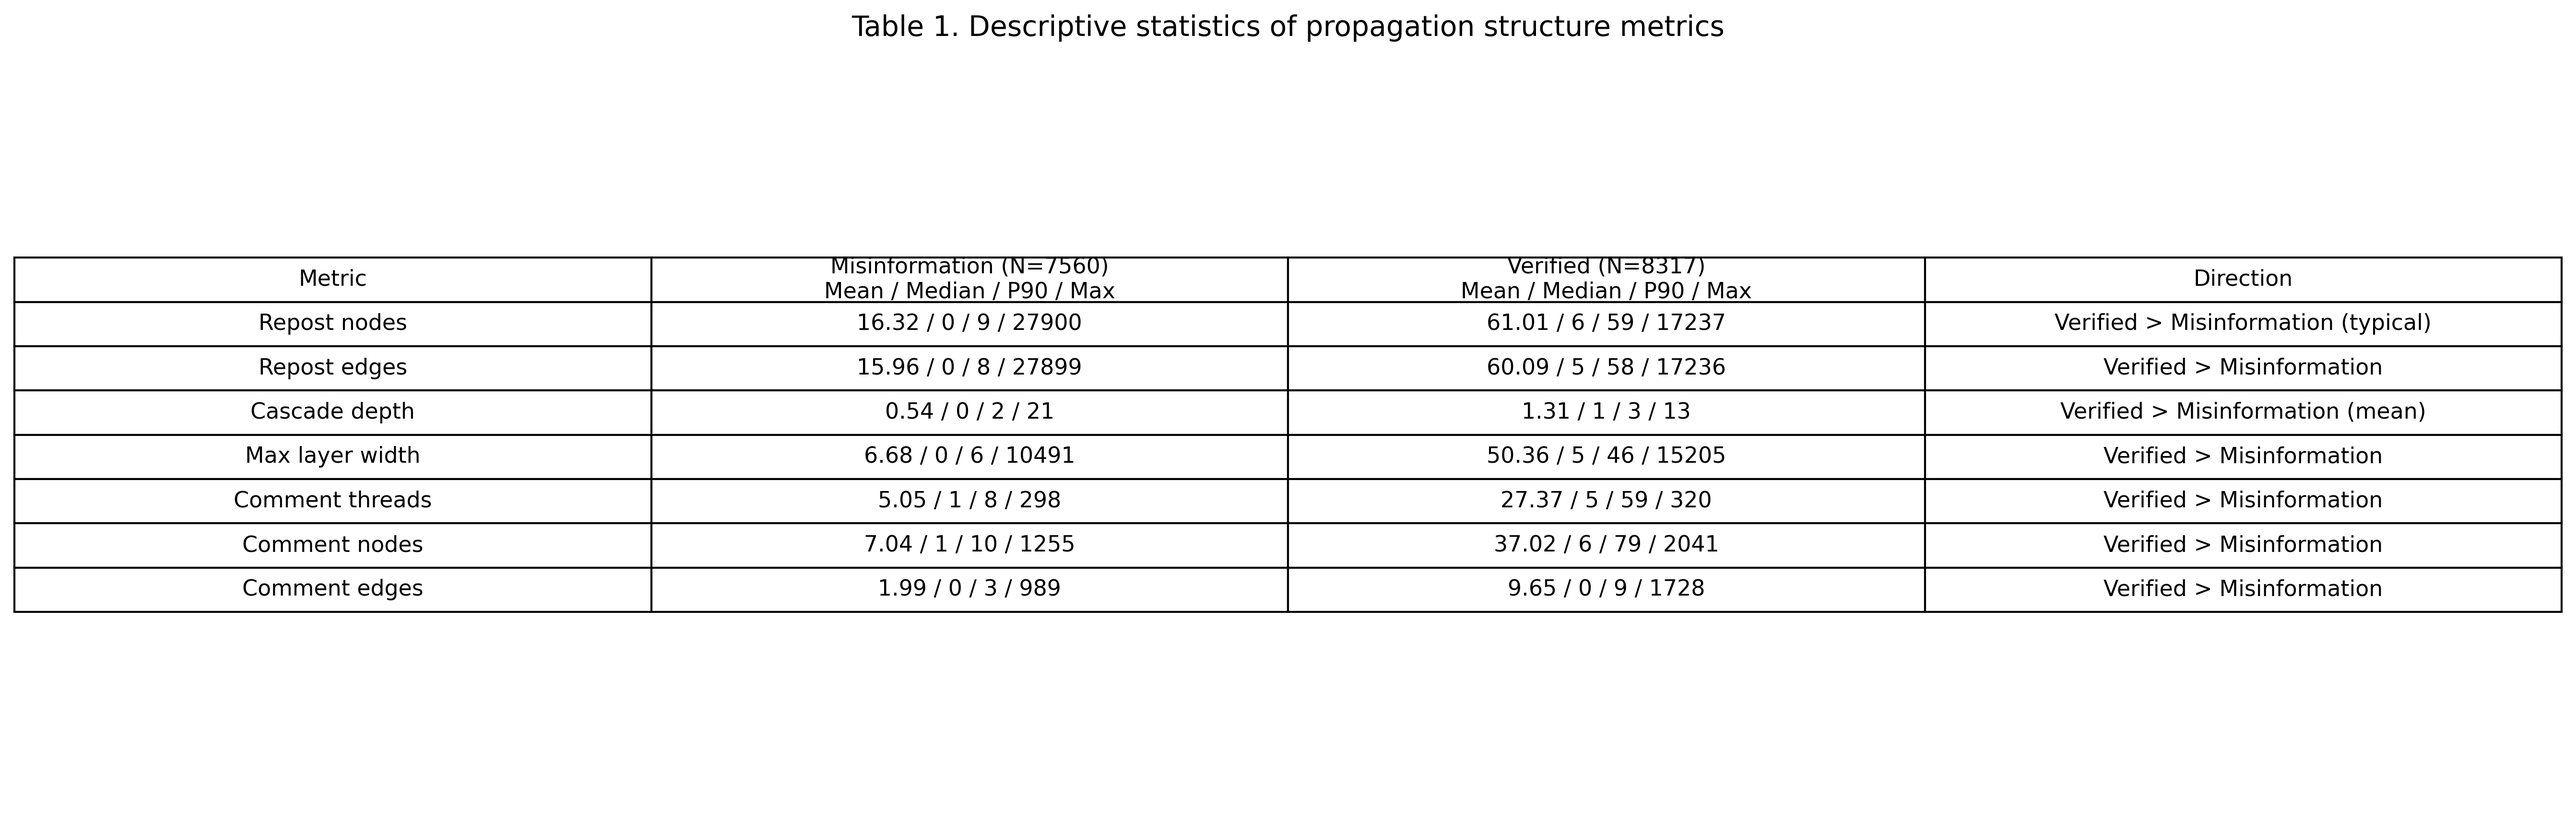
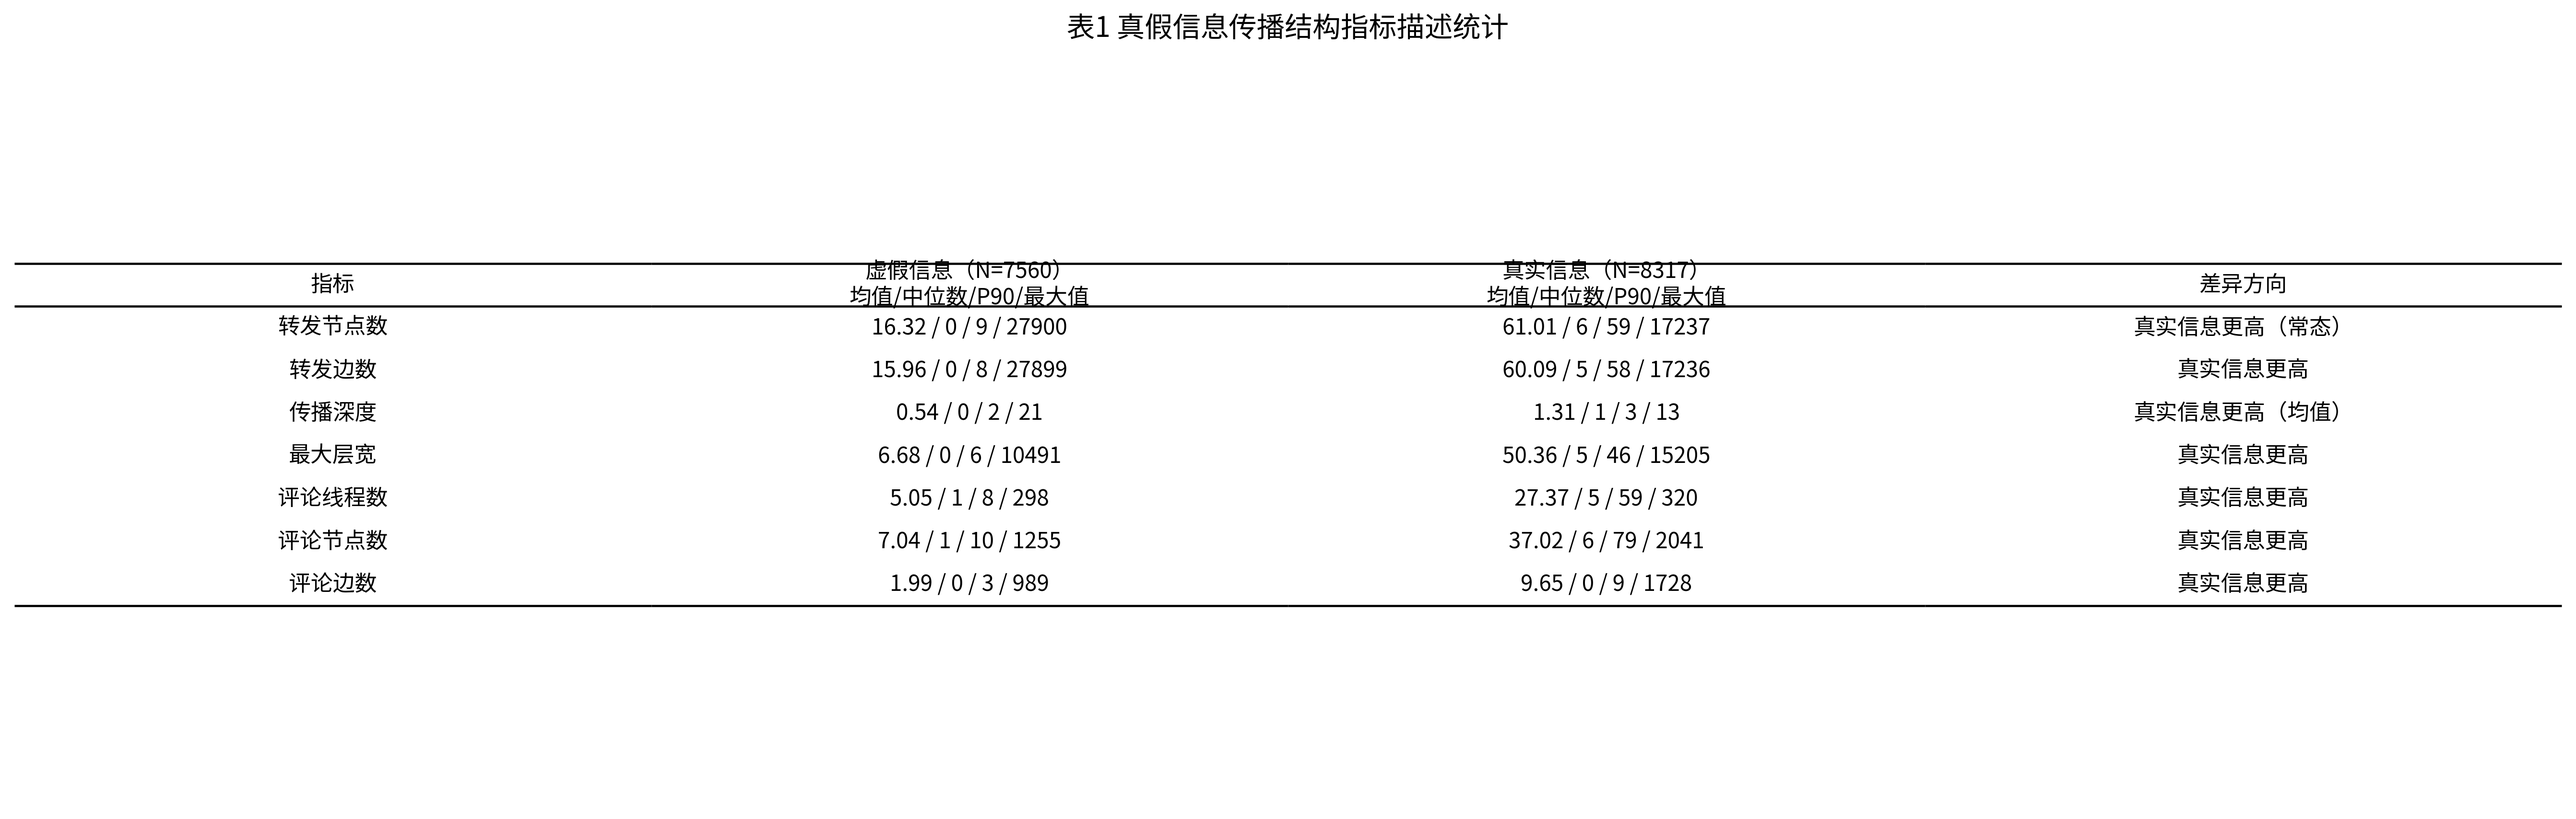
Add JSONL field analysis and RQ1 figure assets
- Provide a consolidated field-level analysis for the repository's JSONL datasets to document schemas, coverage, and distributional characteristics for model/data work.
- Surface per-dataset notes and recommendations for downstream feature processing and handling of edge cases (e.g. empty descriptions, graph scale).

- Add `data_by_type/jsonl/field_analysis.md` containing a comprehensive, dataset-wide analysis (in Chinese) that groups datasets into text/portrait and graph/interaction classes, lists unified top-level fields, reports field completeness and counts, and highlights length/value statistics and modeling recommendations.
- Add RQ1 figure assets `docs/figures/rq1_table1.png` and `docs/figures/rq1_table2.png` used to visualize table results referenced by the analysis.
- All changes are additive: three new files were added and no existing code was modified.

- No automated tests were run for these documentation/image additions.
- Basic repository build or CI was not invoked as part of this change and no runtime code was impacted.

diff --git a/scripts/plot_rq1_tables.py b/scripts/plot_rq1_tables.py
@@ -1,11 +1,43 @@
 import json
 import glob
+import os
 from collections import defaultdict, deque
 from statistics import mean, median
 import matplotlib.pyplot as plt
+from matplotlib import font_manager, rcParams
 
 MIS_PATTERNS = ['data_by_type/jsonl/misinformation.jsonl']
 VER_PATTERNS = ['data_by_type/jsonl/verified_information.part.*.jsonl']
+
+
+def setup_chinese_font():
+    """Try to set a Chinese-capable font for titles/headers."""
+    candidates = [
+        'Noto Sans CJK SC', 'Noto Sans CJK JP', 'Noto Sans SC', 'Source Han Sans SC',
+        'Microsoft YaHei', 'SimHei', 'WenQuanYi Zen Hei', 'PingFang SC'
+    ]
+    # Try loading common CJK font files first.
+    font_files = [
+        '/usr/share/fonts/opentype/noto/NotoSansCJK-Regular.ttc',
+        '/usr/share/fonts/opentype/noto/NotoSansCJK-Bold.ttc',
+        '/usr/share/fonts/opentype/noto/NotoSerifCJK-Regular.ttc',
+    ]
+    for fp in font_files:
+        if os.path.exists(fp):
+            try:
+                font_manager.fontManager.addfont(fp)
+            except Exception:
+                pass
+
+    installed = {f.name for f in font_manager.fontManager.ttflist}
+    for name in candidates:
+        if name in installed:
+            rcParams['font.sans-serif'] = [name, 'DejaVu Sans']
+            rcParams['axes.unicode_minus'] = False
+            return name
+    # Fallback: keep default if no Chinese font found.
+    rcParams['axes.unicode_minus'] = False
+    return None
 
 
 def iter_records(patterns):
@@ -113,7 +145,30 @@ def draw_table(table_data, col_labels, title, out_path, fig_size=(16, 4.5), font
     )
     table.auto_set_font_size(False)
     table.set_fontsize(font_size)
-    table.scale(1, 1.6)
+    table.scale(1, 1.55)
+
+    # 三线表样式：默认无边框，仅保留顶部线、表头下线、底部线。
+    cells = table.get_celld()
+    rows = len(table_data) + 1  # + header
+    cols = len(col_labels)
+
+    for (r, c), cell in cells.items():
+        cell.set_linewidth(0.0)
+        cell.visible_edges = ''
+        cell.set_edgecolor('black')
+
+    # top rule + mid rule on header row
+    for c in range(cols):
+        hcell = cells[(0, c)]
+        hcell.visible_edges = 'TB'
+        hcell.set_linewidth(1.1)
+
+    # bottom rule on last row
+    for c in range(cols):
+        bcell = cells[(rows - 1, c)]
+        bcell.visible_edges = 'B'
+        bcell.set_linewidth(1.1)
+
     plt.title(title, fontsize=14, pad=14)
     plt.tight_layout()
     plt.savefig(out_path, dpi=300, bbox_inches='tight')
@@ -121,18 +176,24 @@ def draw_table(table_data, col_labels, title, out_path, fig_size=(16, 4.5), font
 
 
 def main():
+    font_used = setup_chinese_font()
+    if font_used:
+        print(f'Using font: {font_used}')
+    else:
+        print('Warning: No dedicated Chinese font found; rendering may depend on environment defaults.')
+
     mis = collect(MIS_PATTERNS)
     ver = collect(VER_PATTERNS)
 
     # Table 1
     metrics = [
-        ('Repost nodes', 'repost_nodes', 'Verified > Misinformation (typical)'),
-        ('Repost edges', 'repost_edges', 'Verified > Misinformation'),
-        ('Cascade depth', 'depth', 'Verified > Misinformation (mean)'),
-        ('Max layer width', 'width', 'Verified > Misinformation'),
-        ('Comment threads', 'comment_threads', 'Verified > Misinformation'),
-        ('Comment nodes', 'comment_nodes', 'Verified > Misinformation'),
-        ('Comment edges', 'comment_edges', 'Verified > Misinformation'),
+        ('转发节点数', 'repost_nodes', '真实信息更高（常态）'),
+        ('转发边数', 'repost_edges', '真实信息更高'),
+        ('传播深度', 'depth', '真实信息更高（均值）'),
+        ('最大层宽', 'width', '真实信息更高'),
+        ('评论线程数', 'comment_threads', '真实信息更高'),
+        ('评论节点数', 'comment_nodes', '真实信息更高'),
+        ('评论边数', 'comment_edges', '真实信息更高'),
     ]
 
     t1 = []
@@ -141,8 +202,8 @@ def main():
 
     draw_table(
         table_data=t1,
-        col_labels=['Metric', 'Misinformation (N=7560)\nMean / Median / P90 / Max', 'Verified (N=8317)\nMean / Median / P90 / Max', 'Direction'],
-        title='Table 1. Descriptive statistics of propagation structure metrics',
+        col_labels=['指标', '虚假信息（N=7560）\n均值/中位数/P90/最大值', '真实信息（N=8317）\n均值/中位数/P90/最大值', '差异方向'],
+        title='表1 真假信息传播结构指标描述统计',
         out_path='docs/figures/rq1_table1.png',
         fig_size=(18, 5.8)
     )
@@ -158,20 +219,20 @@ def main():
     ver_large100 = sum(v >= 100 for v in ver['repost_nodes']) / len(ver['repost_nodes'])
 
     t2 = [
-        ['Share with repost nodes = 0', f'{mis_repost0:.2%}', f'{ver_repost0:.2%}', 'Misinformation more likely to fail diffusion'],
-        ['Share with comment nodes = 0', f'{mis_comment0:.2%}', f'{ver_comment0:.2%}', 'Misinformation more likely to fail discussion'],
-        ['Share with depth >= 3', f'{mis_deep3:.2%}', f'{ver_deep3:.2%}', 'Verified more likely to be multi-layer cascades'],
-        ['Share with repost nodes >= 100', f'{mis_large100:.2%}', f'{ver_large100:.2%}', 'Verified more often large-scale diffusion'],
-        ['Max repost nodes', f"{max(mis['repost_nodes'])}", f"{max(ver['repost_nodes'])}", 'Misinformation has higher tail extreme'],
-        ['Max cascade depth', f"{max(mis['depth'])}", f"{max(ver['depth'])}", 'Misinformation can have deeper single cases'],
+        ['转发节点数=0 占比', f'{mis_repost0:.2%}', f'{ver_repost0:.2%}'],
+        ['评论节点数=0 占比', f'{mis_comment0:.2%}', f'{ver_comment0:.2%}'],
+        ['深传播（深度≥3）占比', f'{mis_deep3:.2%}', f'{ver_deep3:.2%}'],
+        ['大规模扩散（转发节点≥100）占比', f'{mis_large100:.2%}', f'{ver_large100:.2%}'],
+        ['最大转发节点', f"{max(mis['repost_nodes'])}", f"{max(ver['repost_nodes'])}"],
+        ['最大传播深度', f"{max(mis['depth'])}", f"{max(ver['depth'])}"],
     ]
 
     draw_table(
         table_data=t2,
-        col_labels=['Risk / structure metric', 'Misinformation', 'Verified', 'Interpretation'],
-        title='Table 2. Structural risk and failure-rate comparison',
+        col_labels=['风险/结构指标', '虚假信息', '真实信息'],
+        title='表2 真假信息结构风险与失败率比较',
         out_path='docs/figures/rq1_table2.png',
-        fig_size=(16, 4.8)
+        fig_size=(14, 4.8)
     )
 
     print('Generated: docs/figures/rq1_table1.png')
